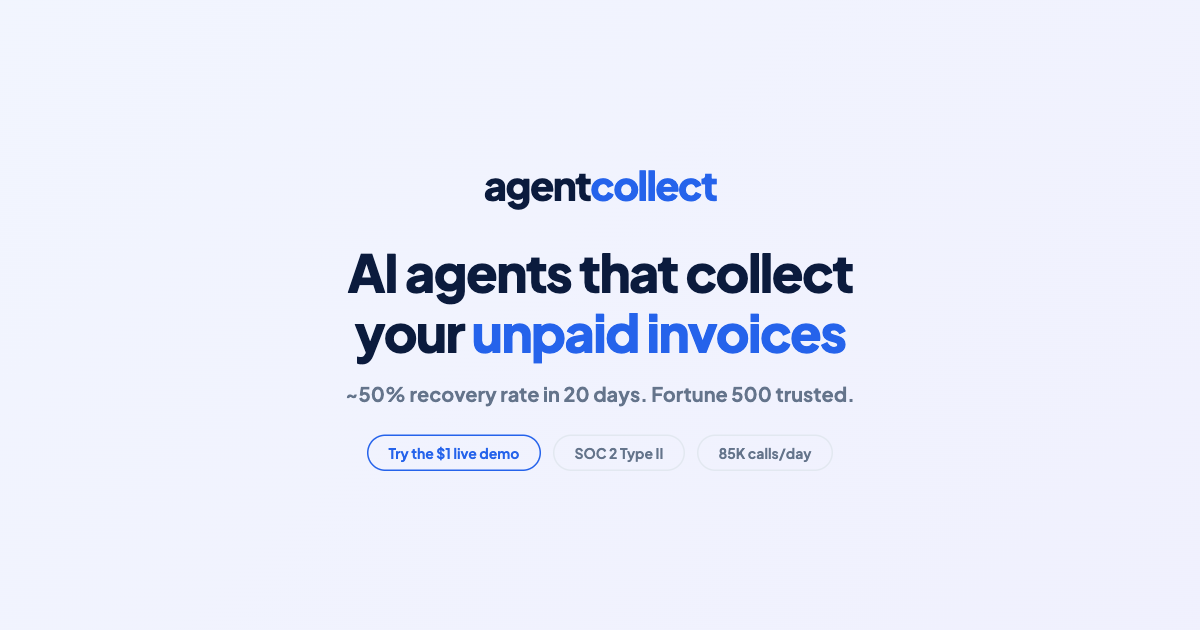
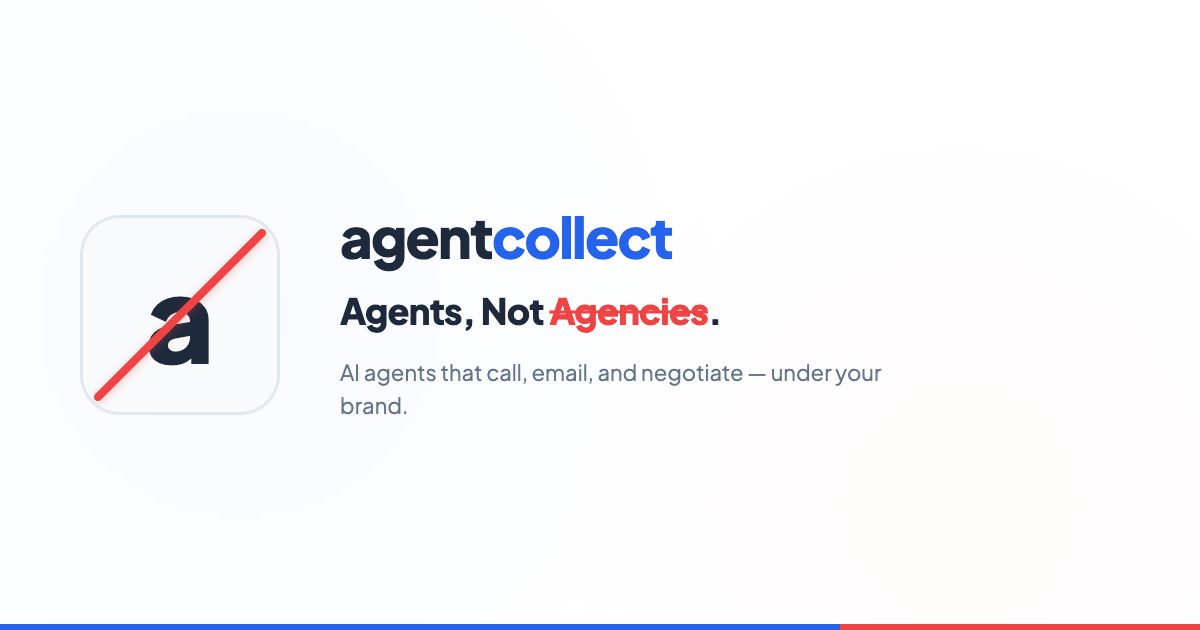
Update OG image with "Agents, Not Agencies" branding
New concept: red-slashed "a" icon (Salesforce "No Software" style),
agentcollect wordmark, and "Agencies" struck through in red.

diff --git a/og-generator.html b/og-generator.html
@@ -2,38 +2,157 @@
 <html>
 <head>
 <meta charset="UTF-8">
+<link href="https://fonts.googleapis.com/css2?family=Plus+Jakarta+Sans:wght@400;600;700;800;900&display=swap" rel="stylesheet">
 <style>
-*{margin:0;padding:0;box-sizing:border-box}
-body{width:1200px;height:630px;background:linear-gradient(135deg,#faf8f5 0%,#f0ebe4 100%);font-family:'Plus Jakarta Sans',-apple-system,sans-serif;display:flex;flex-direction:column;justify-content:center;align-items:center;position:relative;overflow:hidden}
-.glow{position:absolute;width:600px;height:600px;top:50%;left:50%;transform:translate(-50%,-50%);background:radial-gradient(circle,rgba(108,71,255,.08) 0%,transparent 60%);border-radius:50%}
-.content{position:relative;z-index:1;text-align:center;padding:0 80px}
-.logo{display:flex;align-items:center;justify-content:center;gap:12px;margin-bottom:40px}
-.logo-mark{width:48px;height:48px;background:linear-gradient(135deg,#6c47ff,#a78bfa);border-radius:12px;display:flex;align-items:center;justify-content:center;color:#fff;font-size:18px;font-weight:800}
-.logo-text{font-size:28px;font-weight:800;color:#1a1a2e;letter-spacing:-.03em}
-.logo-text span{color:#6c47ff}
-h1{font-size:52px;font-weight:800;letter-spacing:-.04em;line-height:1.12;color:#1a1a2e;margin-bottom:20px}
-h1 em{font-style:normal;color:#6c47ff}
-p{font-size:22px;color:rgba(26,26,46,.55);line-height:1.5;margin-bottom:32px}
-.badges{display:flex;gap:12px;justify-content:center}
-.badge{padding:8px 16px;background:#fff;border:1px solid rgba(0,0,0,.06);border-radius:100px;font-size:14px;font-weight:600;color:#1a1a2e}
-.badge.brand{background:rgba(108,71,255,.08);color:#6c47ff;border-color:rgba(108,71,255,.15)}
+* { margin: 0; padding: 0; box-sizing: border-box; }
+body {
+  width: 1200px;
+  height: 630px;
+  background: #ffffff;
+  font-family: 'Plus Jakarta Sans', -apple-system, sans-serif;
+  display: flex;
+  align-items: center;
+  overflow: hidden;
+  position: relative;
+}
+
+/* Subtle background texture */
+body::before {
+  content: '';
+  position: absolute;
+  inset: 0;
+  background: radial-gradient(circle at 20% 50%, rgba(37, 99, 235, 0.03) 0%, transparent 50%),
+              radial-gradient(circle at 80% 80%, rgba(239, 68, 68, 0.02) 0%, transparent 40%);
+}
+
+.layout {
+  position: relative;
+  z-index: 1;
+  display: flex;
+  align-items: center;
+  width: 100%;
+  height: 100%;
+  padding: 0 80px;
+  gap: 60px;
+}
+
+/* The "a" icon with red slash */
+.icon-container {
+  flex-shrink: 0;
+  position: relative;
+  width: 200px;
+  height: 200px;
+}
+
+.icon-bg {
+  width: 200px;
+  height: 200px;
+  background: #f8fafc;
+  border: 3px solid #e2e8f0;
+  border-radius: 40px;
+  display: flex;
+  align-items: center;
+  justify-content: center;
+  position: relative;
+  overflow: hidden;
+}
+
+.icon-letter {
+  font-family: 'Plus Jakarta Sans', sans-serif;
+  font-size: 120px;
+  font-weight: 900;
+  color: #1e293b;
+  line-height: 1;
+  position: relative;
+  z-index: 1;
+}
+
+/* Red diagonal slash — like Salesforce "No Software" */
+.red-slash {
+  position: absolute;
+  top: 50%;
+  left: 50%;
+  width: 240px;
+  height: 8px;
+  background: #ef4444;
+  border-radius: 4px;
+  transform: translate(-50%, -50%) rotate(-45deg);
+  z-index: 2;
+  box-shadow: 0 2px 8px rgba(239, 68, 68, 0.3);
+}
+
+/* Right side content */
+.content {
+  display: flex;
+  flex-direction: column;
+  gap: 24px;
+}
+
+.wordmark {
+  font-size: 56px;
+  font-weight: 900;
+  letter-spacing: -0.03em;
+  line-height: 1;
+}
+
+.wordmark .agent {
+  color: #1e293b;
+}
+
+.wordmark .collect {
+  color: #2563eb;
+}
+
+.tagline {
+  font-size: 36px;
+  font-weight: 800;
+  color: #1e293b;
+  letter-spacing: -0.02em;
+  line-height: 1.2;
+}
+
+.tagline .not {
+  color: #ef4444;
+  text-decoration: line-through;
+  text-decoration-color: #ef4444;
+  text-decoration-thickness: 3px;
+}
+
+.description {
+  font-size: 22px;
+  font-weight: 500;
+  color: #64748b;
+  line-height: 1.5;
+  max-width: 560px;
+}
+
+/* Bottom border accent */
+.bottom-accent {
+  position: absolute;
+  bottom: 0;
+  left: 0;
+  right: 0;
+  height: 6px;
+  background: linear-gradient(90deg, #2563eb 0%, #2563eb 70%, #ef4444 70%, #ef4444 100%);
+}
 </style>
-<link href="https://fonts.googleapis.com/css2?family=Plus+Jakarta+Sans:wght@400;700;800&display=swap" rel="stylesheet">
 </head>
 <body>
-<div class="glow"></div>
-<div class="content">
-    <div class="logo">
-        <div class="logo-mark">AC</div>
-        <div class="logo-text">agent<span>collect</span></div>
+<div class="layout">
+  <div class="icon-container">
+    <div class="icon-bg">
+      <span class="icon-letter">a</span>
+      <div class="red-slash"></div>
     </div>
-    <h1>AI agents that collect<br>your <em>unpaid invoices</em></h1>
-    <p>~50% recovery rate in 20 days. Fortune 500 trusted.</p>
-    <div class="badges">
-        <div class="badge brand">Try the $1 live demo</div>
-        <div class="badge">SOC 2 Type II</div>
-        <div class="badge">85K calls/day</div>
+  </div>
+  <div class="content">
+    <div class="wordmark">
+      <span class="agent">agent</span><span class="collect">collect</span>
     </div>
+    <div class="tagline">Agents, Not <span class="not">Agencies</span>.</div>
+    <div class="description">AI agents that call, email, and negotiate — under your brand.</div>
+  </div>
 </div>
+<div class="bottom-accent"></div>
 </body>
 </html>
